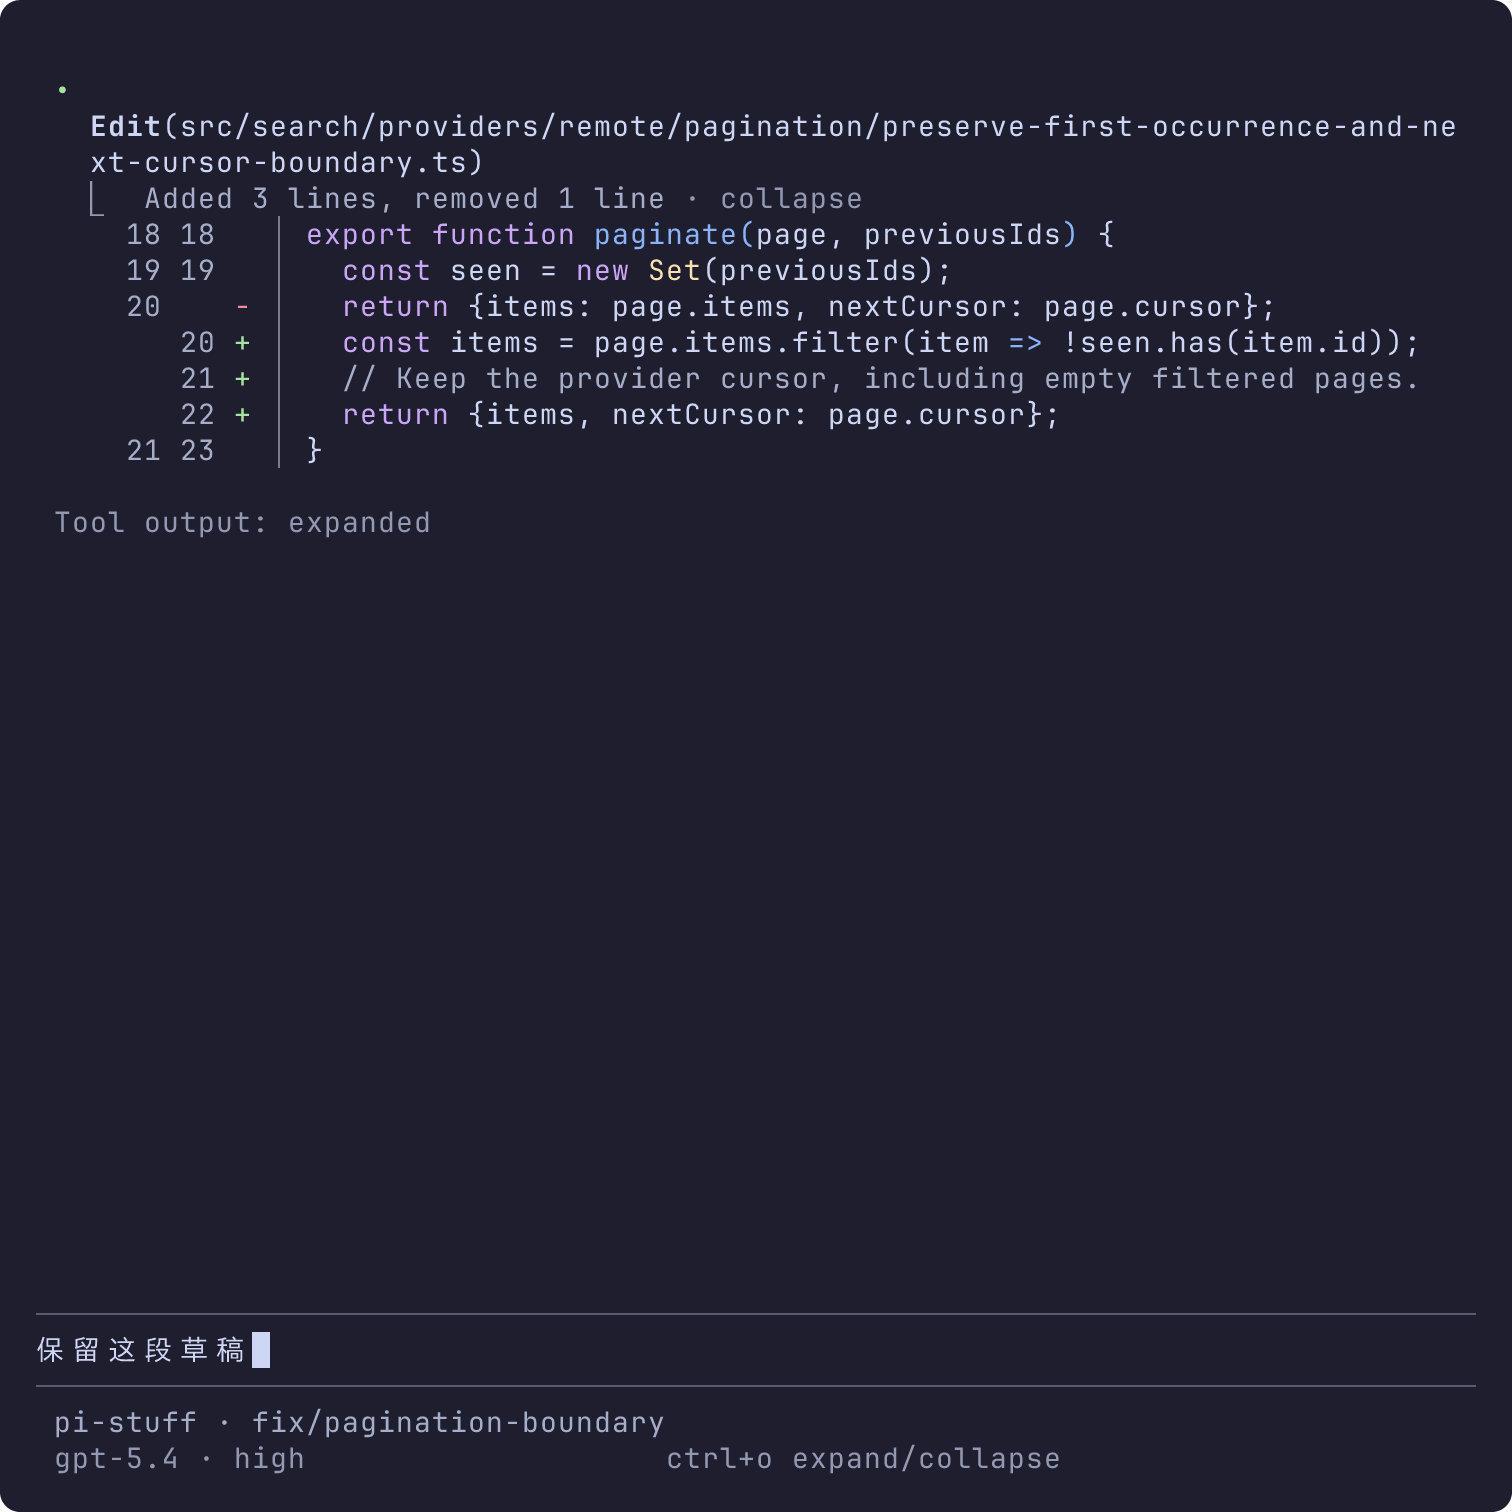
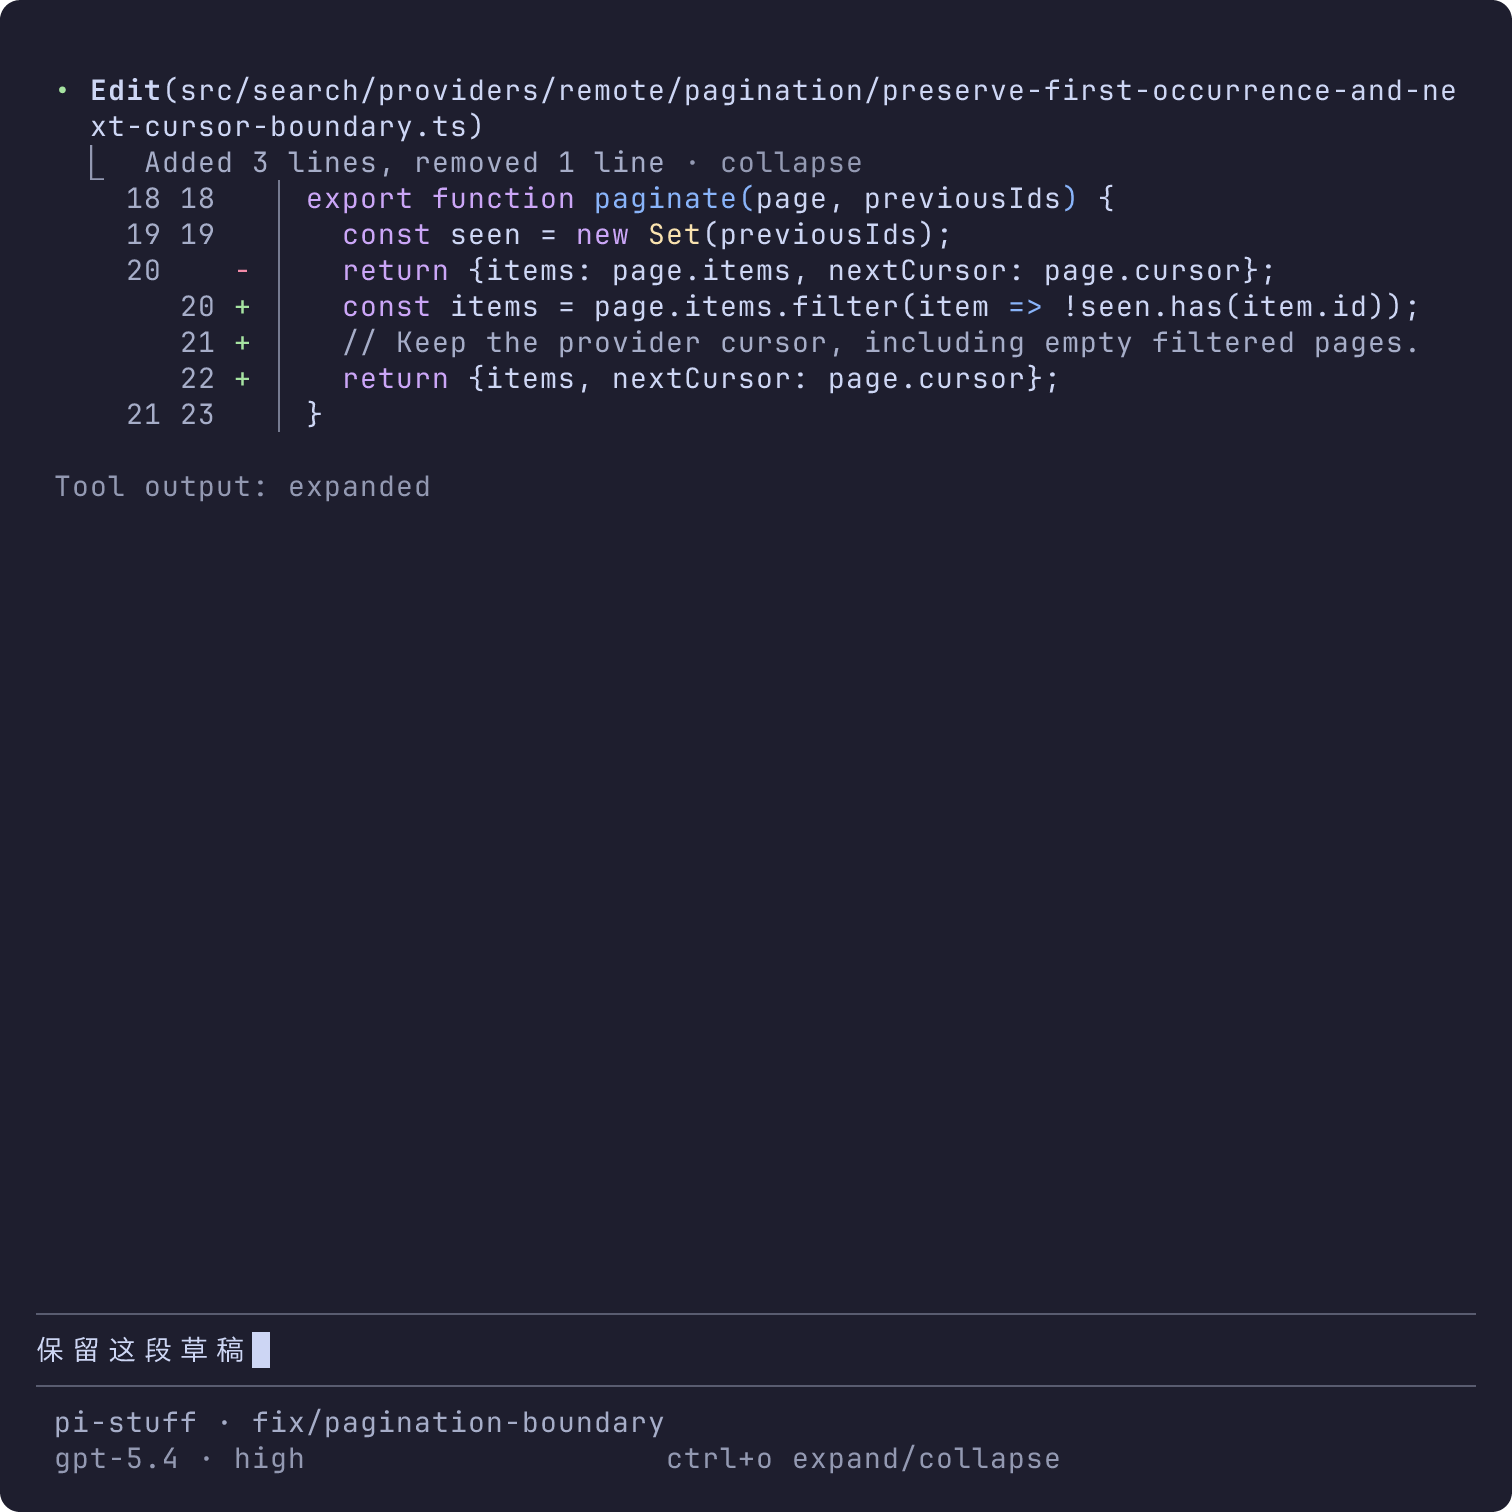
fix(prototype): keep tool markers beside wrapped titles

Changed region(s): [[0.0622, 0.0311, 0.9636, 0.2798], [0.0311, 0.2798, 0.1554, 0.373], [0.1865, 0.3108, 0.2798, 0.373]]

diff --git a/prototypes/ui-session/render.ts b/prototypes/ui-session/render.ts
@@ -108,12 +108,13 @@ function toolRows(
         : tool.state === 'running'
           ? 'accent'
           : 'success';
-  const title = `${theme.fg(color, '•')} ${theme.bold(theme.fg('toolTitle', tool.name))}(${theme.fg('text', tool.target)})`;
+  const marker = `${theme.fg(color, '•')} `;
+  const title = `${theme.bold(theme.fg('toolTitle', tool.name))}(${theme.fg('text', tool.target)})`;
   const rows = state.open
     ? wrapTextWithAnsi(title, Math.max(1, width - 2)).map(
-        (line, i) => (i ? '  ' : '') + line,
+        (line, i) => (i ? '  ' : marker) + line,
       )
-    : [truncateToWidth(title, width)];
+    : [truncateToWidth(marker + title, width)];
   const detail = bodyRows(tool.body, Math.max(1, width - 4), theme);
   const shown = state.open
     ? detail
